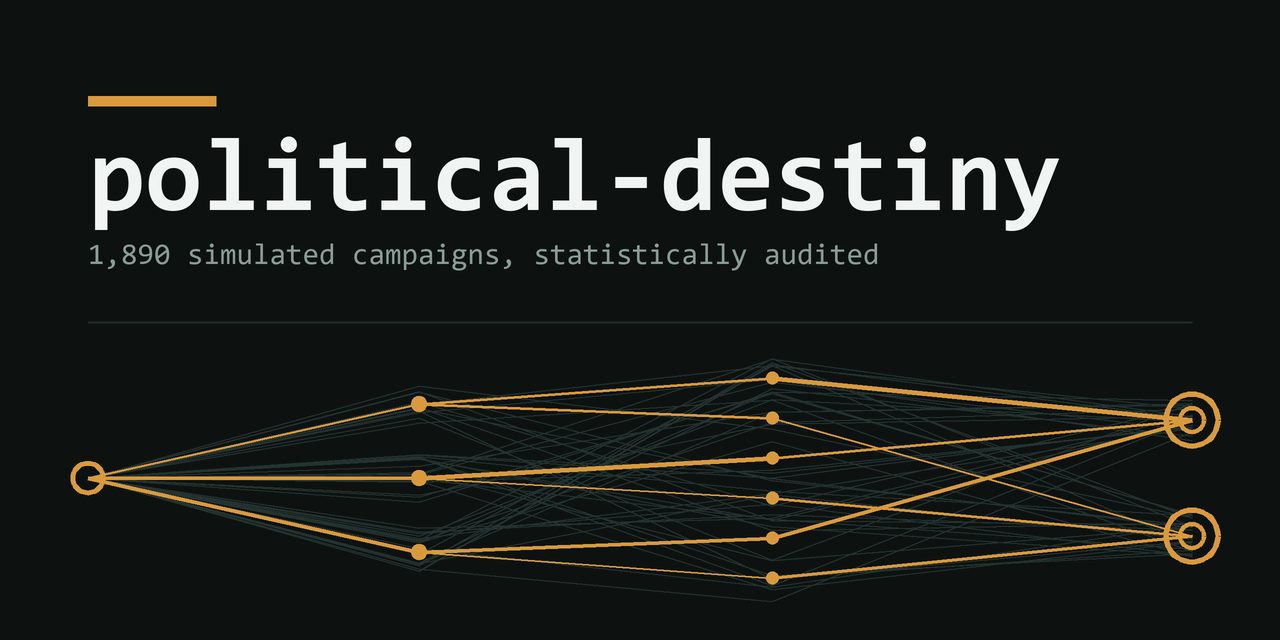
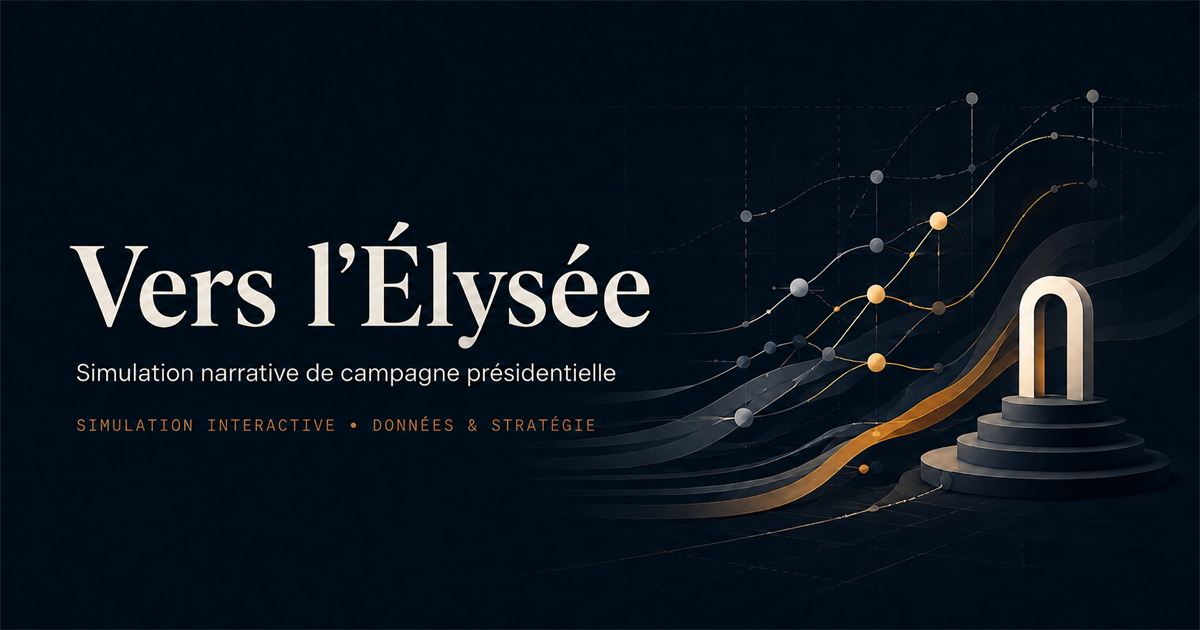
feat(metadata): add dedicated site social preview

diff --git a/src/app/layout.tsx b/src/app/layout.tsx
@@ -28,7 +28,7 @@ export const metadata: Metadata = {
     siteName: BRANDING.name,
     locale: "fr_FR",
     type: "website",
-    images: [{ url: "/og.png", width: 1280, height: 640, alt: BRANDING.name }],
+    images: [{ url: "/og.png", width: 1200, height: 630, alt: BRANDING.name }],
   },
   twitter: { card: "summary_large_image" },
 };
